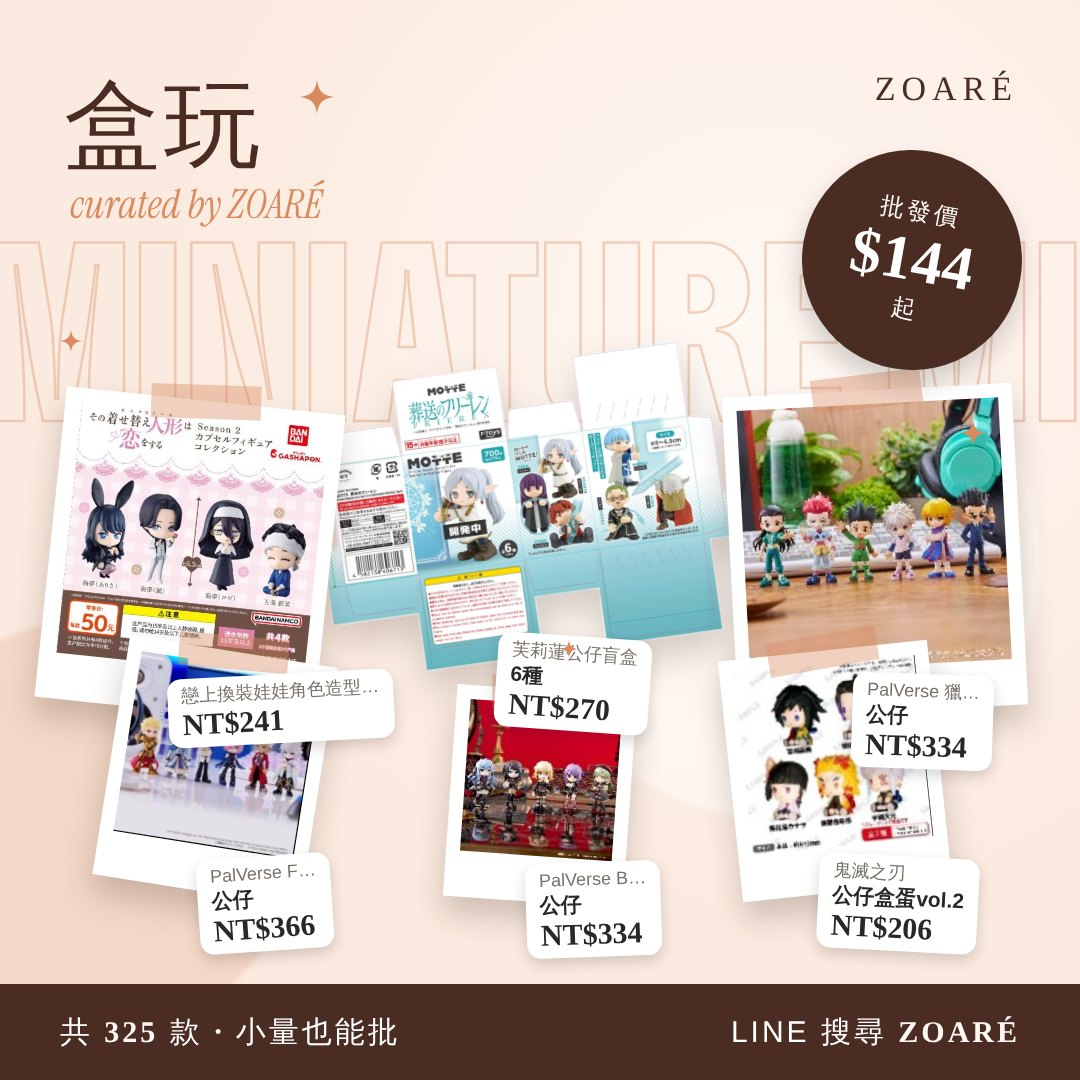
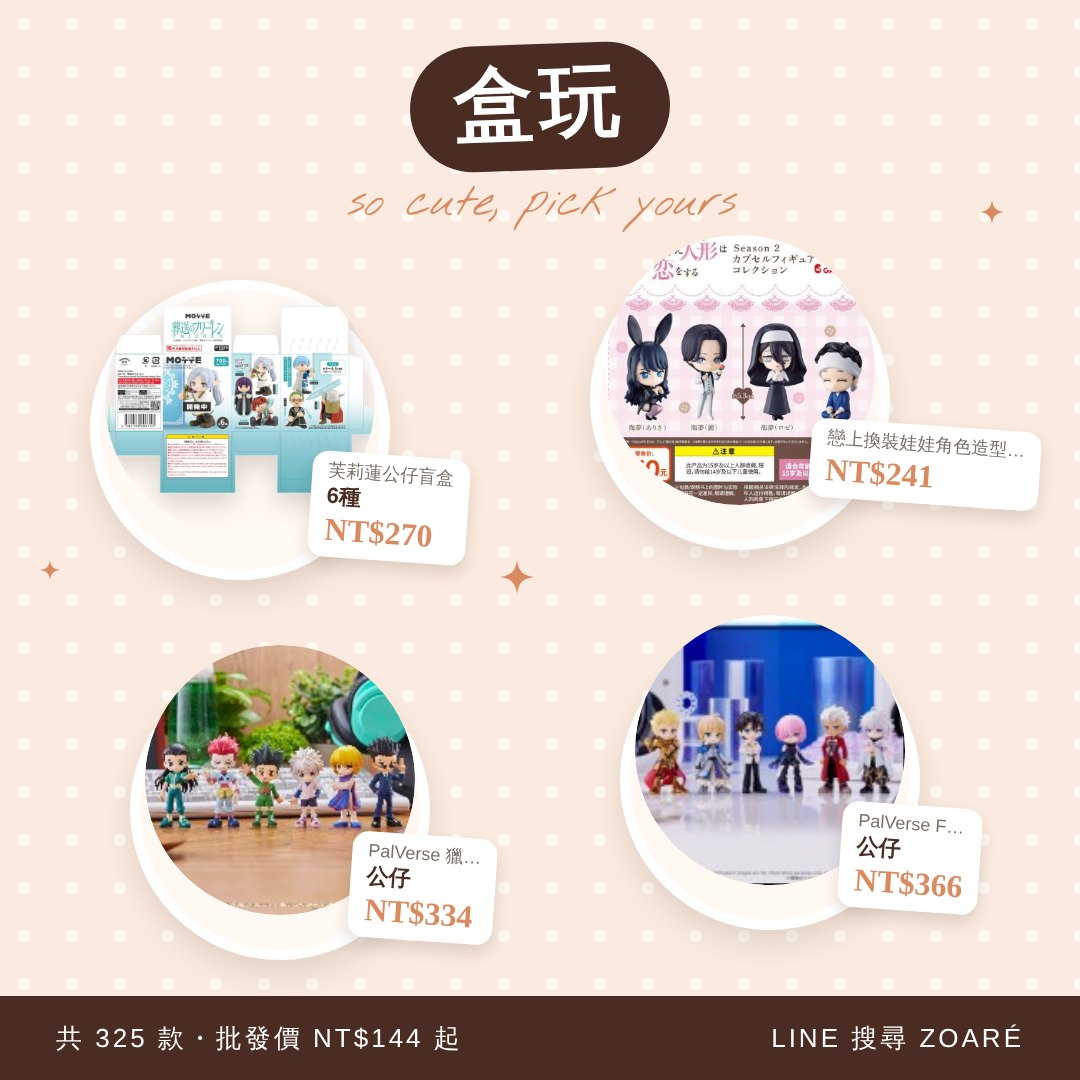
宣傳圖：新增編輯風、精品拱門、可愛圓盤三種版型輪流，每張 4 款不擁擠
Claude-Session: https://claude.ai/code/session_01AQ8Wd57HiUH89BJX3KnLGT

diff --git a/tools/promo_gen.py b/tools/promo_gen.py
@@ -163,10 +163,10 @@ def render(html, out):
     open(js, 'w').write("""const {chromium}=require('playwright');(async()=>{const b=await chromium.launch();const p=await b.newPage({viewport:{width:1080,height:1080}});await p.goto('file://'+process.argv[2]);await p.waitForTimeout(700);await p.screenshot({path:process.argv[3],type:'jpeg',quality:86});await b.close()})();""")
     subprocess.run(['node', js, hp, out], check=True, cwd='/home/claude', env={**os.environ, 'NODE_PATH': subprocess.run(['npm', 'root', '-g'], capture_output=True, text=True).stdout.strip()})
 
-def tpl_series(kw, P, price, count):
+def tpl_series(kw, P, price, count, boxes=None):
     bg, dk, ac, lt = PAL.get(kw, DEF)
     en = {'三麗鷗': 'SANRIO', '吉伊卡哇': 'CHIIKAWA', '史努比': 'SNOOPY', '寶可夢': 'POKÉMON', '盒玩': 'MINIATURE', '角落生物': 'SUMIKKO', 'mofusand': 'MOFUSAND', '拉拉熊': 'RILAKKUMA', '哆啦A夢': 'DORAEMON', '動漫': 'ANIME'}.get(kw, 'ZOARÉ')
-    boxes = [(320, 300, 420), (50, 400, 280), (730, 390, 290), (110, 650, 210), (730, 650, 210), (450, 690, 180)]
+    boxes = boxes or [(320, 300, 420), (50, 400, 280), (730, 390, 290), (110, 650, 210), (730, 650, 210), (450, 690, 180)]
     return f'''<html><head><meta charset="utf-8"><style>{ff()}{BASE}
 body{{background:radial-gradient(circle at 70% 30%,{lt} 0,{bg} 55%,{bg} 100%)}}
 .blob{{position:absolute;border-radius:50%;filter:blur(2px)}}
@@ -189,9 +189,92 @@ body{{background:radial-gradient(circle at 70% 30%,{lt} 0,{bg} 55%,{bg} 100%)}}
 <div class="foot"><span>共 <b>{count:,}</b> 款・小量也能批</span><span>LINE 搜尋 <b>ZOARÉ</b></span></div>
 </body></html>'''
 
+# ---------- 更多系列版型（每張 4 款、留白多） ----------
+EN = {'三麗鷗': 'SANRIO', '吉伊卡哇': 'CHIIKAWA', '史努比': 'SNOOPY', '寶可夢': 'POKÉMON', '盒玩': 'MINIATURE', '角落生物': 'SUMIKKO', 'mofusand': 'MOFUSAND', '拉拉熊': 'RILAKKUMA', '哆啦A夢': 'DORAEMON', '動漫': 'ANIME'}
+def pimg(p):
+    if p['cut']: return f'<img src="file://{p["path"]}" style="width:100%;height:100%;object-fit:contain;filter:drop-shadow(0 10px 12px rgba(50,35,25,.18))">'
+    return f'<div style="width:100%;height:100%;background:url(\'file://{p["path"]}\') 50% 30%/cover;border-radius:inherit"></div>'
+
+def tpl_grid(kw, P, price, count):
+    """編輯風：上方大標，下面 2×2 商品卡，每張卡下有品名和價格"""
+    bg, dk, ac, lt = PAL.get(kw, DEF)
+    cards = ''
+    for p in P[:4]:
+        a, b = short(p['n'])
+        cards += f'<div class="cd"><div class="im">{pimg(p)}</div><div class="cap"><span>{a}</span><em>{b}</em></div><b>NT${p["g"]}</b></div>'
+    css = f"""body{{background:{bg}}}
+.hd{{position:absolute;left:64px;right:64px;top:50px;display:flex;justify-content:space-between;align-items:flex-end;border-bottom:3px solid {dk};padding-bottom:16px}}
+.hd h1{{font-family:round,tc;font-size:88px;color:{dk};letter-spacing:6px;line-height:1}}
+.hd .r{{text-align:right;color:{dk}}}.hd .r i{{font-family:ital,serif;font-size:34px;color:{ac};display:block}}.hd .r b{{font-family:serif;font-size:26px;letter-spacing:6px}}
+.grid{{position:absolute;left:64px;right:64px;top:196px;display:grid;grid-template-columns:1fr 1fr;gap:26px}}
+.cd{{background:{lt};border-radius:28px;padding:16px 16px 12px;display:flex;flex-direction:column;align-items:center;box-shadow:0 10px 24px rgba(40,30,20,.07)}}
+.im{{width:240px;height:240px;border-radius:20px;overflow:hidden}}
+.cap{{margin-top:6px;text-align:center;line-height:1.3}}.cap span{{display:block;font-size:19px;color:#7a7168}}.cap em{{font-style:normal;font-weight:700;font-size:23px;color:{dk}}}
+.cd b{{font-family:serif;font-size:34px;color:{ac};margin-top:2px}}
+.foot{{position:absolute;left:64px;right:64px;bottom:34px;display:flex;justify-content:space-between;font-size:25px;color:{dk};letter-spacing:3px}}"""
+    return f"""<html><head><meta charset="utf-8"><style>{ff()}{BASE}{css}</style></head><body>
+<div class="hd"><h1>{kw}</h1><div class="r"><i>weekly picks</i><b>ZOARÉ</b></div></div>
+<div class="grid">{cards}</div>
+<div class="foot"><span>共 {count:,} 款・批發價 NT${price} 起</span><span>LINE 搜尋 ZOARÉ</span></div>
+</body></html>"""
+
+def tpl_arch(kw, P, price, count):
+    """精品風：深色底、香檳金拱門框，商品一字排開"""
+    gold = '#D8BE8C'
+    arches = ''
+    for i, p in enumerate(P[:4]):
+        a, b = short(p['n'])
+        arches += f'<div class="ar" style="margin-top:{[40, 0, 40, 0][i]}px"><div class="in">{pimg(p)}</div><div class="cap"><span>{a}</span><em>{b}</em><b>NT${p["g"]}</b></div></div>'
+    css = f"""body{{background:radial-gradient(circle at 50% 0%,#3A3631 0,#1E1C1A 70%)}}
+.t{{position:absolute;left:0;right:0;top:66px;text-align:center;color:{gold}}}
+.t small{{font-family:serif;font-size:28px;letter-spacing:12px;display:block}}
+.t h1{{font-family:round,tc;font-size:86px;color:#F4EDE0;letter-spacing:10px;margin-top:8px}}
+.t i{{font-family:ital,serif;font-size:34px;display:block;margin-top:2px}}
+.row{{position:absolute;left:48px;right:48px;top:350px;display:flex;justify-content:space-between}}
+.ar{{width:228px;display:flex;flex-direction:column;align-items:center}}
+.in{{width:228px;height:300px;border:3px solid {gold};border-radius:114px 114px 18px 18px;background:#F7F1E6;padding:22px 14px 14px;overflow:hidden}}
+.cap{{text-align:center;margin-top:14px;line-height:1.3}}.cap span{{display:block;font-size:19px;color:#B9AE9C}}.cap em{{display:block;font-style:normal;font-size:23px;color:#F4EDE0;font-weight:700}}.cap b{{font-family:serif;font-size:34px;color:{gold}}}
+.foot{{position:absolute;left:0;right:0;bottom:46px;text-align:center;font-size:25px;letter-spacing:5px;color:{gold}}}
+.ln{{position:absolute;left:340px;right:340px;bottom:100px;height:1px;background:{gold}88}}"""
+    return f"""<html><head><meta charset="utf-8"><style>{ff()}{BASE}{css}</style></head><body>
+<div class="t"><small>ZOARÉ</small><h1>{kw}</h1><i>{EN.get(kw, '')} collection</i></div>
+<div class="row">{arches}</div><div class="ln"></div>
+<div class="foot">共 {count:,} 款　批發價 NT${price} 起　LINE 搜尋 ZOARÉ</div>
+</body></html>"""
+
+def tpl_plate(kw, P, price, count):
+    """可愛風：彩色圓盤托著商品，波點背景、手寫英文"""
+    bg, dk, ac, lt = PAL.get(kw, DEF)
+    pos = [(60, 240), (560, 210), (100, 620), (590, 590)]
+    h = ''
+    for (x, y), p in zip(pos, P[:4]):
+        a, b = short(p['n'])
+        h += f'<div class="pl" style="left:{x}px;top:{y}px"><div class="disc"></div><div class="im">{pimg(p)}</div><div class="tg"><span>{a}</span><em>{b}</em><b>NT${p["g"]}</b></div></div>'
+    css = f"""body{{background:{bg};background-image:radial-gradient({lt} 18%,transparent 19%);background-size:48px 48px}}
+.t{{position:absolute;left:0;right:0;top:44px;text-align:center}}
+.t h1{{display:inline-block;font-family:round,tc;font-size:80px;color:#fff;background:{dk};padding:6px 44px 12px;border-radius:999px;letter-spacing:6px;transform:rotate(-2deg)}}
+.t i{{display:block;font-family:hand,ital;font-size:44px;color:{ac};margin-top:4px}}
+.pl{{position:absolute;width:420px;height:360px}}
+.disc{{position:absolute;left:30px;top:40px;width:300px;height:300px;border-radius:50%;background:{lt};border:10px solid #fff;box-shadow:0 14px 28px rgba(60,40,30,.12)}}
+.im{{position:absolute;left:45px;top:25px;width:270px;height:270px;border-radius:50%;overflow:hidden}}
+.tg{{position:absolute;left:250px;top:215px;background:#fff;border-radius:16px;padding:8px 16px;box-shadow:0 8px 16px rgba(60,40,30,.15);line-height:1.25;transform:rotate(4deg)}}
+.tg span{{display:block;font-size:18px;color:#7a7168;white-space:nowrap}}.tg em{{display:block;font-style:normal;font-weight:700;font-size:22px;color:{dk};white-space:nowrap}}.tg b{{font-family:serif;font-size:32px;color:{ac}}}
+.foot{{position:absolute;left:0;right:0;bottom:0;height:84px;background:{dk};color:#fff;display:flex;align-items:center;justify-content:space-between;padding:0 56px;font-size:26px;letter-spacing:3px}}"""
+    return f"""<html><head><meta charset="utf-8"><style>{ff()}{BASE}{css}</style></head><body>
+<div class="t"><h1>{kw}</h1><i>so cute, pick yours</i></div>{h}
+{stars(ac, [(500, 560, 34), (980, 200, 24), (40, 560, 20)])}
+<div class="foot"><span>共 {count:,} 款・批發價 NT${price} 起</span><span>LINE 搜尋 ZOARÉ</span></div>
+</body></html>"""
+
+def tpl_collage4(kw, P, price, count):
+    """拼貼風（原本的版型）改成 4 款、間距拉開"""
+    return tpl_series(kw, P[:4], price, count, boxes=[(340, 300, 390), (30, 440, 290), (770, 430, 270), (360, 690, 200)])
+
+STYLES = [tpl_grid, tpl_arch, tpl_plate, tpl_collage4]
+
 def tpl_new(brand_show, P, price, count, date):
     dk, ac, lt = '#2A2826', '#B8955A', '#FFFDF9'
-    boxes = [(80, 380, 310), (410, 360, 320), (740, 390, 280), (160, 680, 240), (470, 690, 240), (760, 690, 220)]
+    boxes = [(70, 390, 300), (400, 360, 310), (730, 400, 280), (330, 680, 230)]
     return f'''<html><head><meta charset="utf-8"><style>{ff()}{BASE}
 body{{background:#F7F2EA}}
 .grid{{position:absolute;inset:0;background-image:linear-gradient(#0000000a 1px,transparent 1px),linear-gradient(90deg,#0000000a 1px,transparent 1px);background-size:54px 54px}}
@@ -249,12 +332,13 @@ def save(key, html, P=None):
     if old and old != BANK[key]['img'] and old not in [IMGOF(v) for v in BANK.values()] and os.path.exists(os.path.join(REPO, old)): os.remove(os.path.join(REPO, old))
     print('made', key, '->', name)
 
-def make_series(kw, key=None):
+def make_series(kw, key=None, style=None):
     L = series_items(kw)
     if not L: print('no items', kw); return
-    P = choose(L[:400], 6, NOW.strftime('%Y%m%d') + kw)
+    P = choose(L[:400], 4, NOW.strftime('%Y%m%d') + kw)
     if not P: return
-    save(key or 'series:' + kw, tpl_series(kw, P, min(x['g'] for x in L), len(L)), P)
+    i = style if style is not None else int(hashlib.md5((NOW.strftime('%Y%m%d') + kw + (key or '')).encode()).hexdigest(), 16) % len(STYLES)
+    save(key or 'series:' + kw, STYLES[i](kw, P, min(x['g'] for x in L), len(L)), P)
 
 def rot_series(d):
     wk = (datetime.date(d.year, d.month, d.day) - datetime.date(2026, 1, 5)).days // 7
@@ -269,7 +353,7 @@ def daily():
     for x in LIVE:
         if x.get('ad') == today: fresh.setdefault(x.get('b') or '新品', []).append(x)
     for b, L in sorted(fresh.items(), key=lambda kv: -len(kv[1]))[:3]:
-        P = choose(L, 6)
+        P = choose(L, 4)
         if P: save(f'new:{today}:{b}', P=P, html=tpl_new(re.sub(r'^(309|Kamio|CRUX|Nakajima|T\'s Factory|J\'s Planning|A Planning|OST|森本|Marimo Craft|RE-MENT|萬代南夢宮|萬代|Bushiroad|F-toys|GPS|Ensky|Sun Arrow)\s*', '', b) or '新品', P, min(x['g'] for x in L), len(L), today))
     # 3) 結單倒數：4 天內結單的每一組，3 天／1 天／1 小時三張都先做好
     groups = {}
@@ -298,7 +382,7 @@ def daily():
 
 if __name__ == '__main__':
     cmd = sys.argv[1] if len(sys.argv) > 1 else 'daily'
-    if cmd == 'series': make_series(sys.argv[2], sys.argv[3] if len(sys.argv) > 3 else None)
+    if cmd == 'series': make_series(sys.argv[2], sys.argv[3] if len(sys.argv) > 3 and sys.argv[3] != '-' else None, int(sys.argv[4]) if len(sys.argv) > 4 else None)
     elif cmd == 'count':  # 測試用：python3 tools/promo_gen.py count 1d 吉伊卡哇
         L = series_items(sys.argv[3]); P = choose(L[:400], 4, 'x'); save('test:' + sys.argv[2], P=P, html=tpl_count(sys.argv[2], P, min(x['g'] for x in L), '2026-11-05 23:59'))
     elif cmd == 'new':
